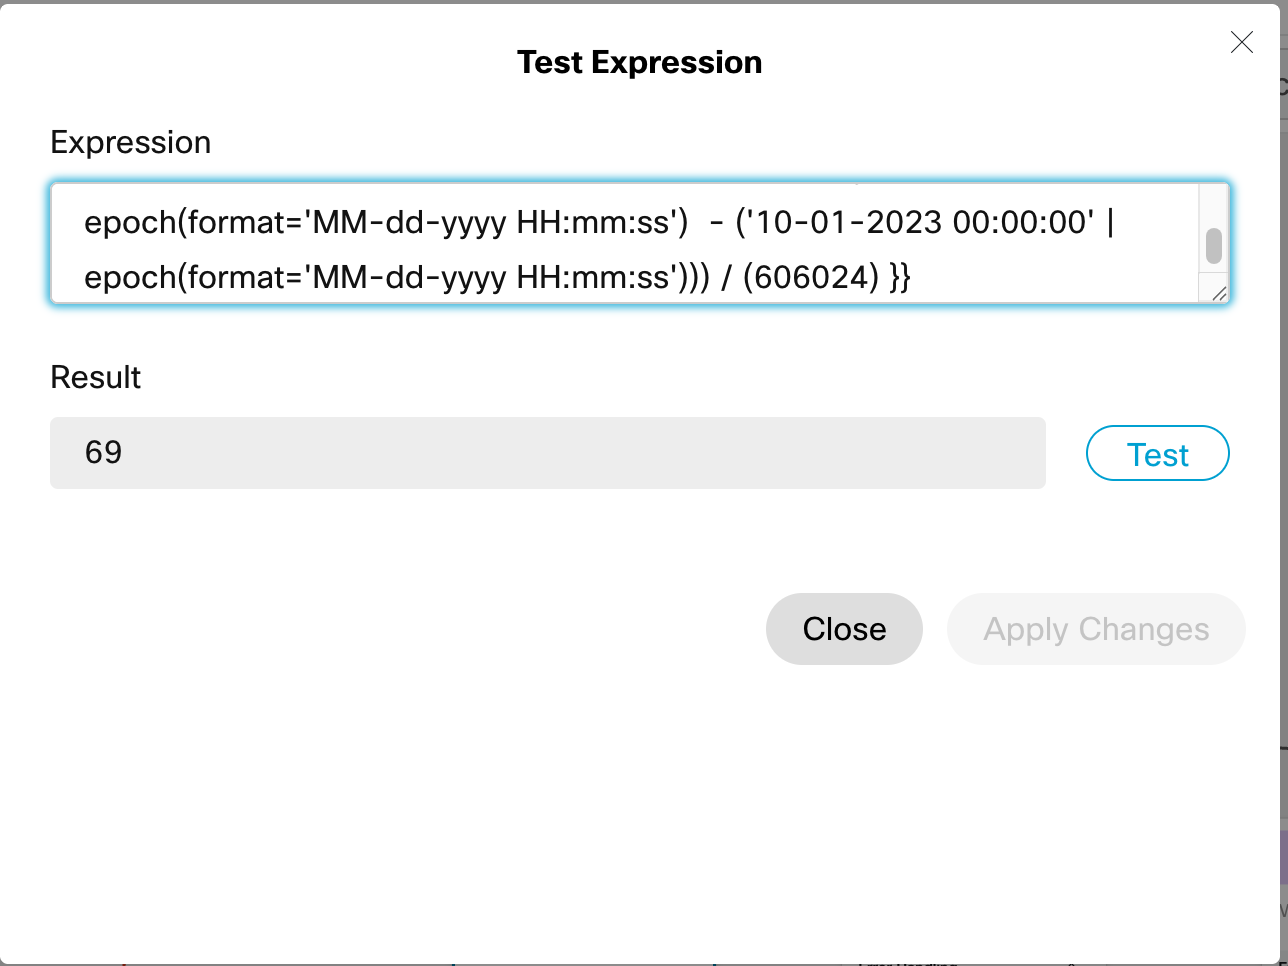
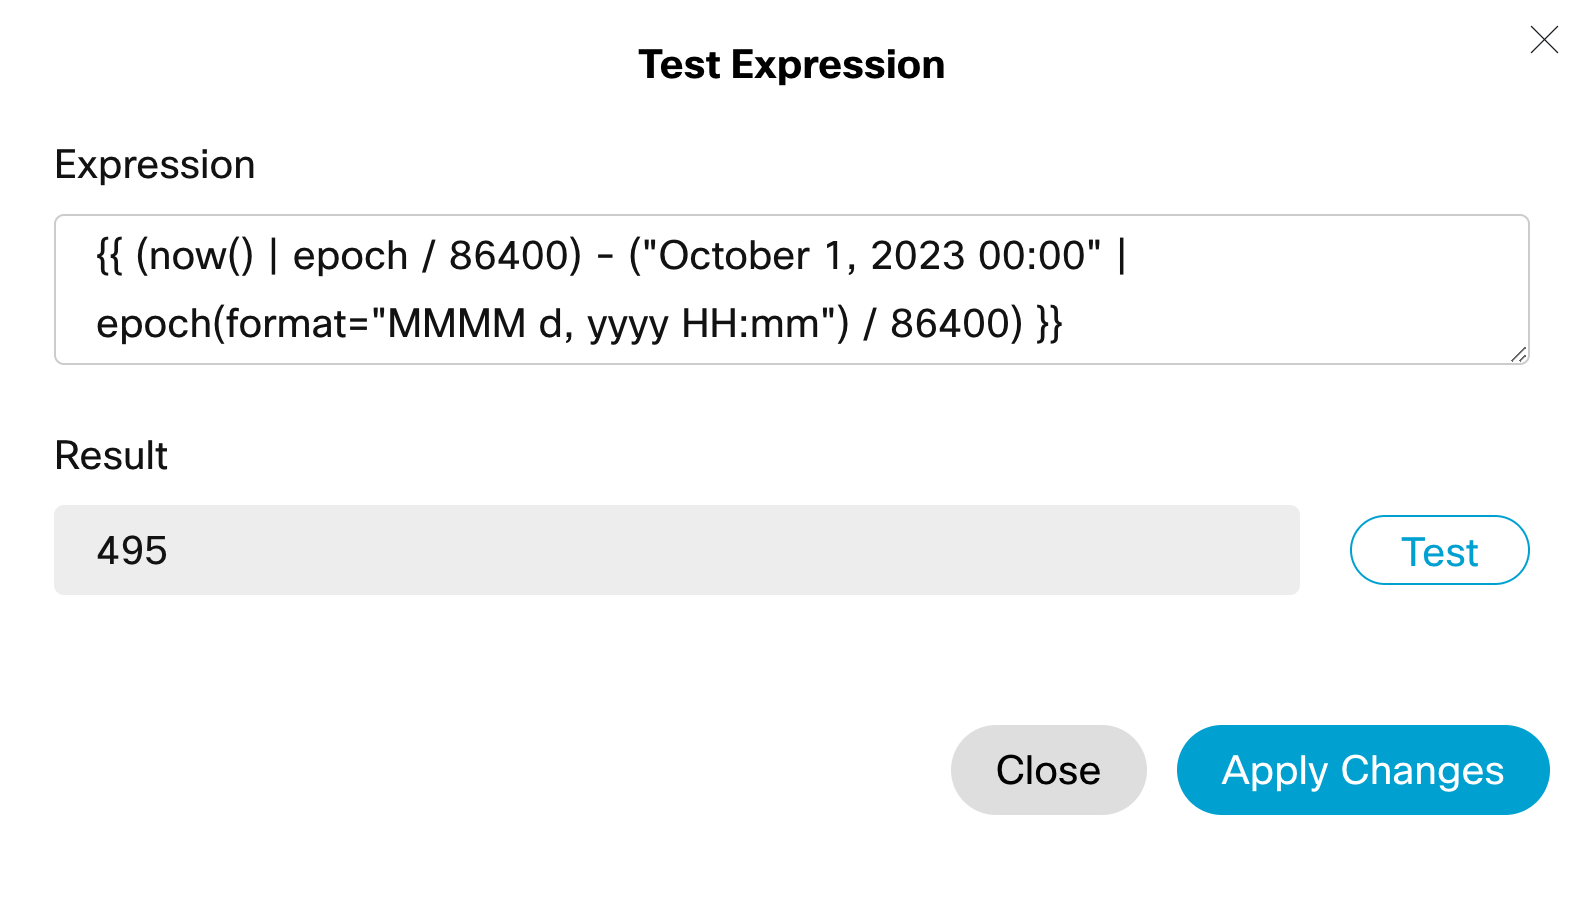
updated daysbetween.png

diff --git a/_pages/Pebble.md b/_pages/Pebble.md
@@ -88,7 +88,7 @@ Returns the number of days between now and a given date.
 
 Expression: **`{{ (now() | epoch / 86400) - ("October 1, 2023 00:00" | epoch(format="MMMM d, yyyy HH:mm") / 86400) }}`**
 
-Result: **`494`**
+Result: **`495`**
 
 <!-- {%endraw%} -->
 
